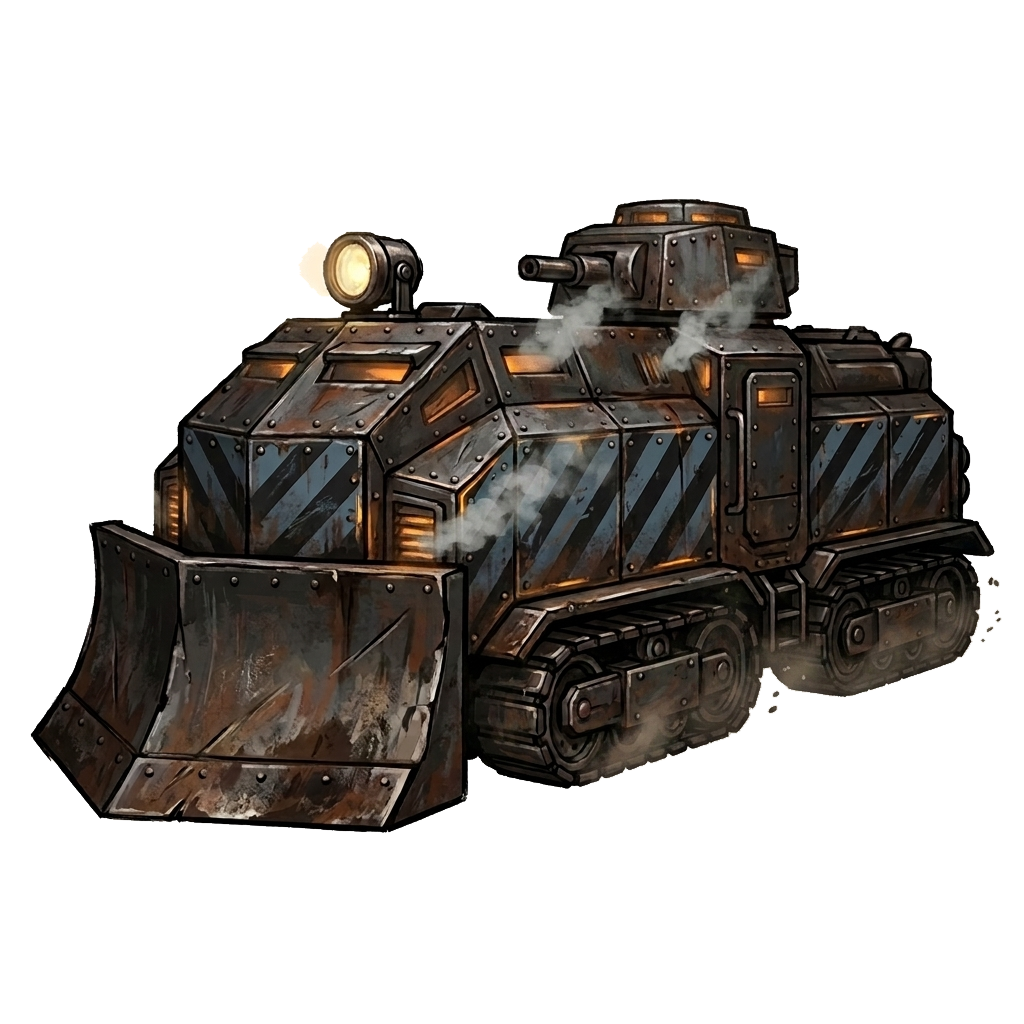
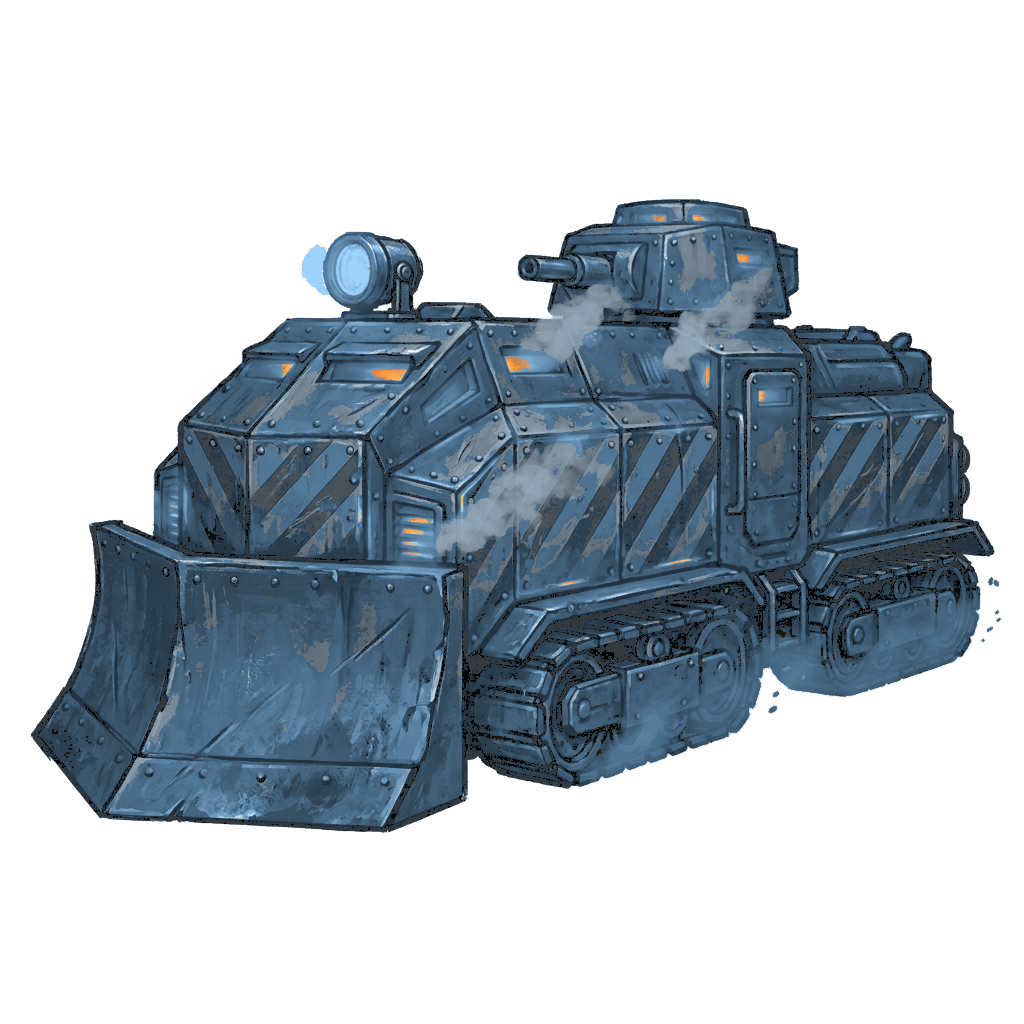
Recolor rail_barricade armor to vigil steel blue (design ruling 8858544)
- All 13 landed frames migrated via tools/recolor_barricade.py: hue
  layer only, alpha verified pixel-identical and bboxes unchanged
- Armor rust/amber (49% of body) -> steel family: hue 207, V-linked
  saturation 0.46-0.32, piecewise value lift so the median armor lands
  on the spec shadow tone #46697F..#405E76 (frames were V54-dark;
  pure hue rotation would have read as near-black)
- Kept per ruling: yellow warning stripes, bright amber lights,
  speculars, T3 preheat glow (red cores V>=160 + 6px halo - tube
  hardware migrates like armor); fire frames keep the full warm flash
  body after the first pass blue-washed dim flame edges (V<=120) and
  the vision re-check caught it - re-ran with sat>0.22 no-V-floor keep
- Post-stats: idle steel share 4.4% -> 96.9%, warm remainder 3%;
  t3 keeps 23.5% warm (tubes/stripes/lights); t2-vs-idle body
  pixel-exact invariant holds (82.7-93.4%) since both sides got the
  same deterministic transform
- Unblocks the 11 missing + redo barricade frames at MiniMax (chain
  bases now carry the corrected palette)

diff --git a/tools/recolor_barricade.py b/tools/recolor_barricade.py
@@ -1,0 +1,108 @@
+"""Recolor rail_barricade armor to the design-ruled vigil steel-blue.
+
+Design ruling 8858544 (v13 task 1): main armor plates return to
+vigil steel blue #5D8AA8 with volume gradient #46697F..#7FA8C4,
+rust demoted to <=15% accents, amber demoted to functional lights,
+yellow-black warning stripes and the T3 preheat-glow stay. Hue/sat
+layer only - alpha and silhouette untouched, no regeneration.
+
+Kept (never migrated):
+  - yellow warning stripes   hue 40-70, sat > 0.42 (dilated 1px)
+  - bright amber lights      hue 16-48, sat > 0.50, V > 200
+  - specular whites          sat < 0.12, V > 235
+  - T3 preheat glow cores    hue < 16 or > 344, sat > 0.40, V >= 160
+                             (dilated 6px to keep the halo; the tube
+                             hardware itself migrates like armor)
+  - fire frames: the warm   hue 8-55, sat > 0.30, V > 120 flash body
+    (whole-reel effect color, not armor)
+
+Migration (everything else opaque):
+  - hue   -> 207 (steel)
+  - sat   -> 0.46 dark .. 0.32 bright (V-linked)
+  - value -> piecewise lift so the median armor lands on the spec
+             shadow tone: (9,64) (54,118) (118,158) (200,198) (255,255)
+  - near-neutral grays keep sat <= 0.20 (steel tint, not blue paint)
+"""
+import sys
+from pathlib import Path
+import numpy as np
+from PIL import Image
+from scipy import ndimage
+
+ANIM = Path("E:/TD/Assets/Resources/Art/anim")
+TARGET_HUE = 207.0
+V_KNOTS = np.array([9, 54, 118, 200, 255], float)
+V_OUT = np.array([64, 118, 158, 198, 255], float)
+FRAMES = [f"tower_rail_barricade_{i:02d}" for i in range(5)] \
+       + [f"tower_rail_barricade_t2_{i:02d}" for i in range(4)] \
+       + ["tower_rail_barricade_t3_00"] \
+       + [f"tower_rail_barricade_fire_{i:02d}" for i in range(3)]
+
+
+def rgb_to_hsv_np(rgb):  # rgb float [..,3] in 0..1
+    r, g, b = rgb[..., 0], rgb[..., 1], rgb[..., 2]
+    mx, mn = rgb.max(-1), rgb.min(-1)
+    d = mx - mn
+    h = np.zeros_like(mx)
+    m = (mx == r) & (d > 1e-6); h[m] = ((g - b)[m] / d[m]) % 6
+    m = (mx == g) & (d > 1e-6); h[m] = (b - r)[m] / d[m] + 2
+    m = (mx == b) & (d > 1e-6); h[m] = (r - g)[m] / d[m] + 4
+    return h * 60.0, np.where(mx > 1e-6, d / np.maximum(mx, 1e-6), 0), mx
+
+
+def hsv_to_rgb_np(h, s, v):  # h degrees
+    c = v * s
+    hp = (h % 360.0) / 60.0
+    x = c * (1 - np.abs(hp % 2 - 1))
+    z = np.zeros_like(c)
+    r = np.select([hp < 1, hp < 2, hp < 3, hp < 4, hp < 5], [c, x, z, z, x], z + c)
+    g = np.select([hp < 1, hp < 2, hp < 3, hp < 4, hp < 5], [x, c, c, x, z], z)
+    b = np.select([hp < 1, hp < 2, hp < 3, hp < 4, hp < 5], [z, z, x, c, c], z)
+    m = v - c
+    return np.stack([r + m, g + m, b + m], -1)
+
+
+def recolor(path: Path, fire_frame: bool, t3_frame: bool) -> dict:
+    im = np.array(Image.open(path).convert("RGBA")).astype(np.float64)
+    rgb = im[..., :3] / 255.0
+    h, s, v = rgb_to_hsv_np(rgb)
+    vd = v * 255.0
+
+    keep = (s < 0.12) & (vd > 235)                       # speculars
+    keep |= (h >= 40) & (h < 70) & (s > 0.42)            # warning stripes
+    keep |= (h >= 16) & (h < 48) & (s > 0.50) & (vd > 200)  # amber lights
+    if t3_frame:
+        core = (((h < 16) | (h > 344)) & (s > 0.40) & (vd >= 160))
+        keep |= ndimage.binary_dilation(core, iterations=6)   # preheat halos
+    if fire_frame:
+        keep |= (h >= 8) & (h < 55) & (s > 0.30) & (vd > 120)  # flash body
+
+    migrate = (im[..., 3] > 0) & ~keep
+
+    v_new = np.interp(vd, V_KNOTS, V_OUT) / 255.0
+    s_new = np.clip(0.46 - np.clip((vd - 100) / 255.0 * 0.14, 0, 0.14), 0.30, 0.48)
+    s_new = np.where(s < 0.12, np.minimum(s_new, 0.20), s_new)  # grays stay subtle
+
+    out = im.copy()
+    mm = migrate
+    out[..., :3][mm] = (hsv_to_rgb_np(
+        np.full_like(h[mm], TARGET_HUE), s_new[mm], v_new[mm]) * 255)
+    Image.fromarray(out.astype(np.uint8), "RGBA").save(path)
+    return {"migrated_px": int(mm.sum()),
+            "kept_px": int((keep & (im[..., 3] > 0)).sum())}
+
+
+if __name__ == "__main__":
+    names = sys.argv[1:] or FRAMES
+    for n in names:
+        path = ANIM / f"{n}.png"
+        if not path.exists():
+            print(f"{n}: missing, skip")
+            continue
+        before = np.array(Image.open(path).convert("RGBA"))[..., 3].copy()
+        r = recolor(path, fire_frame="_fire_" in n, t3_frame="_t3_" in n)
+        after = np.array(Image.open(path).convert("RGBA"))[..., 3]
+        ys, xs = np.where(after > 30)
+        print(f"{n:34s} migrated {r['migrated_px']:7d}  kept {r['kept_px']:7d}  "
+              f"alpha_identical={np.array_equal(before, after)}  "
+              f"bbox x[{xs.min()},{xs.max()}] y[{ys.min()},{ys.max()}]")
